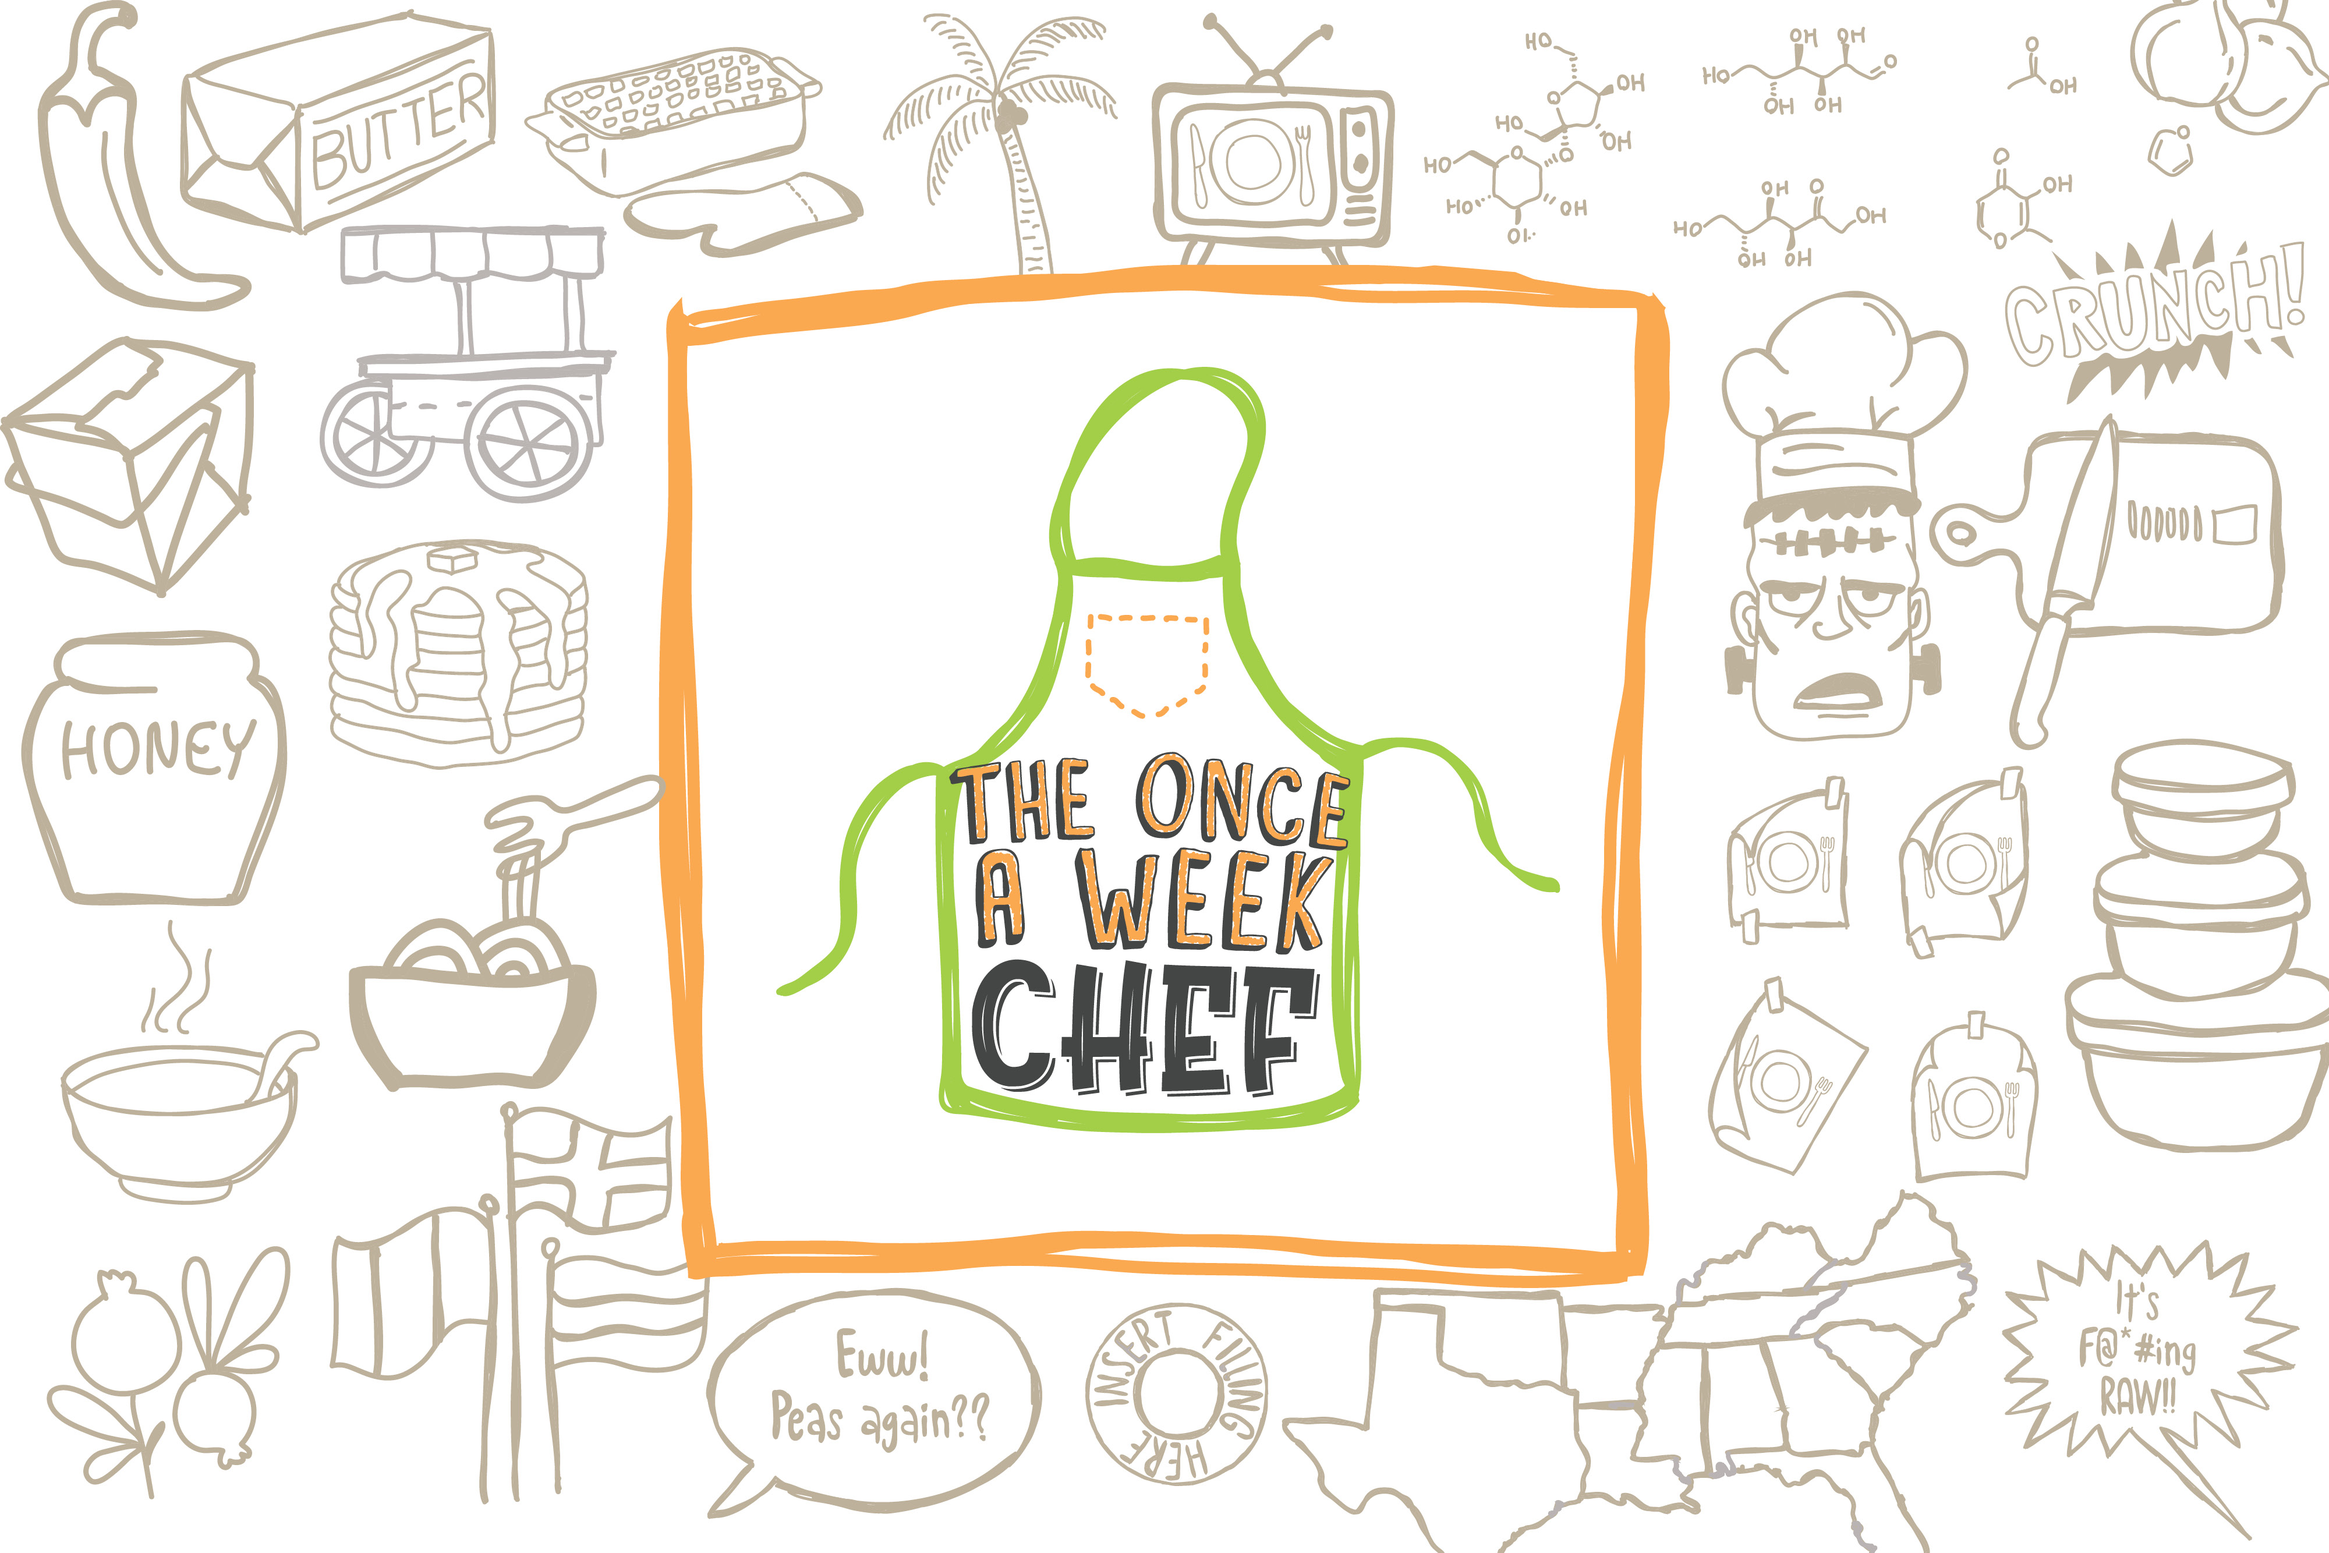
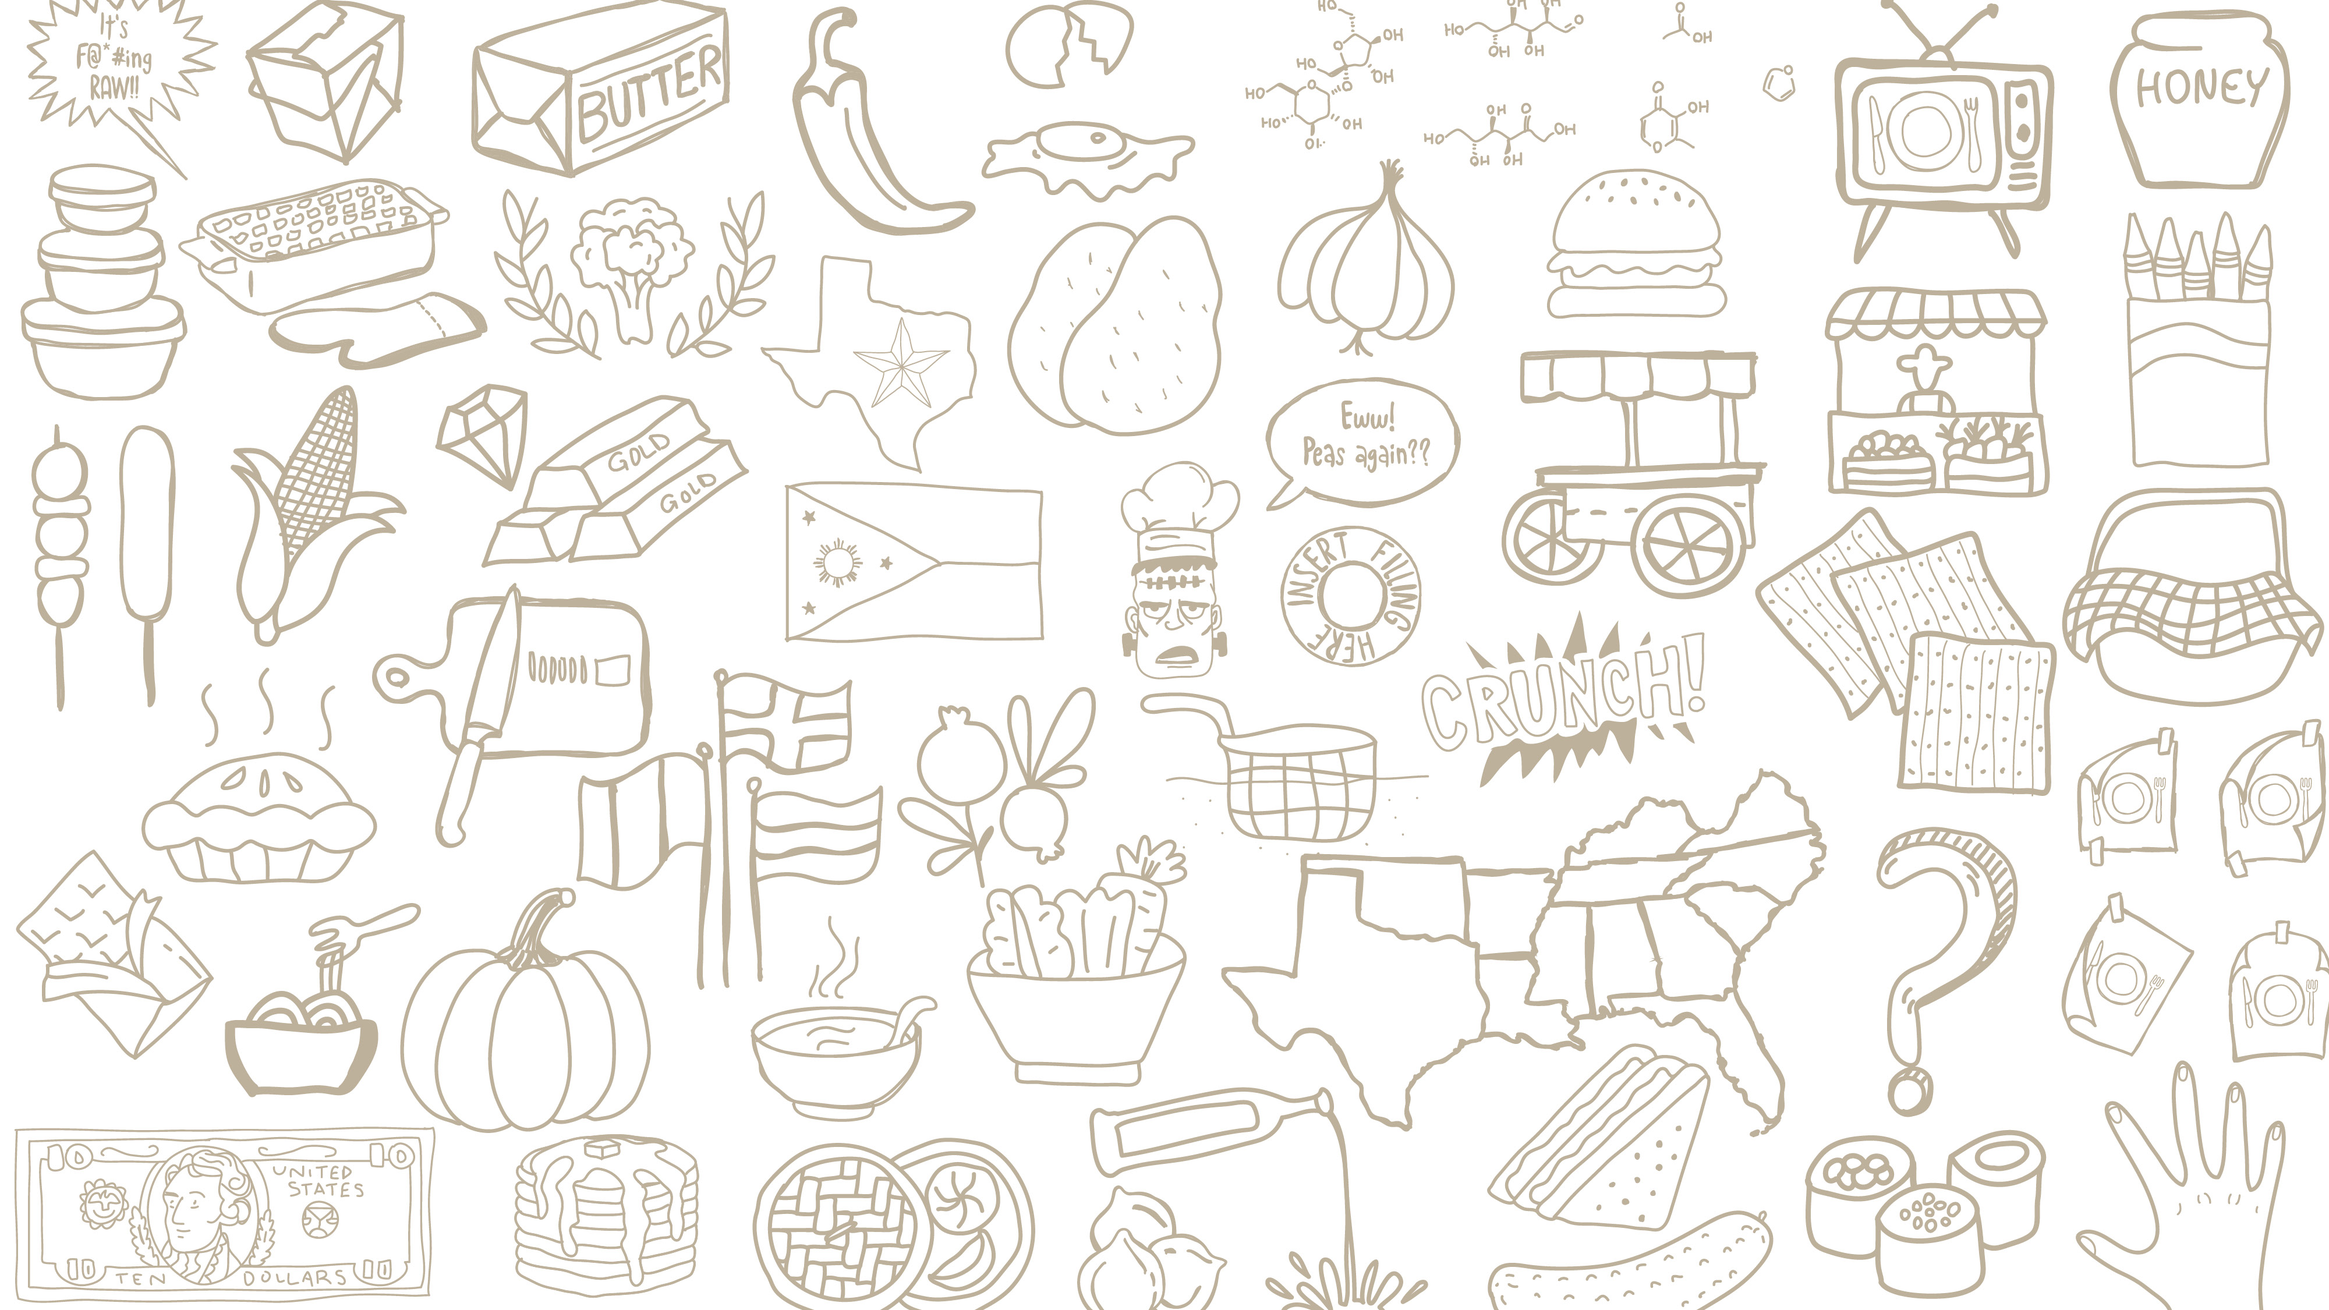
nav and new bg pattern

Changed region(s): [[0.0, 0.0, 1.0, 1.0], [0.375, 0.3422, 0.4062, 0.3733]]

diff --git a/index.html b/index.html
@@ -18,19 +18,41 @@
 <div class="content-container">
     <section class="title panel">
     </section>
-    <section class="hook panel">
-        <div class="headline" id="pinned-element2">
-            <h2>The Once a Week Chef is a year-long, once a week cooking adventure for those looking for a little inspiration in their kitchen.</h2>
+    <section class="panel">
+        <div class="hook">
+            <div class="headline">
+                <h2>The Once a Week Chef is a year-long, once a week cooking adventure for those looking for a little inspiration in their kitchen.</h2>
+            </div>
         </div>
     </section>
-    <section class="problem panel">
-        <div class="problemstatementtext">
-            <p>It’s easy and understandable for people to fall into a cooking rut at any time. They know what they like and what they can make well enough. Life gets busy, so they stick to a rotation of the tried and true.</p>
-            <p>I believe cooking, and food in general, should be fun. Personally, a renewed interest in cooking has been one of the few bright spots during this pandemic quarantine. A well-cooked meal can ease the sting of not being able to visit your favorite restaurants or transport you to far away destinations that you can currently only dream about visiting
-            again someday. But when you’re stuck in a cooking rut, it can become a task you dread rather than look forward to.</p>
-            <p>The goal of The Once a Week Chef is to inspire home cooks to try something new once a week for a whole year by giving them a weekly theme and prompt on which to base a recipe and a place to document their dishes. At the end of their year long challenge, users will have a personally curated cookbook of tried-and-tested recipes and the
-            satisfaction of having tried something out of their comfort zone 52 weeks straight.</p>
+    <section class="panel">
+        <div class="problem">
+            <div class="problemstatementtext">
+                <p>It’s easy and understandable for people to fall into a cooking rut at any time. They know what they like and what they can make well enough. Life gets busy, so they stick to a rotation of the tried and true.</p>
+                <p>I believe cooking, and food in general, should be fun. Personally, a renewed interest in cooking has been one of the few bright spots during this pandemic quarantine. A well-cooked meal can ease the sting of not being able to visit your favorite restaurants or transport you to far away destinations that you can currently only dream about visiting
+                again someday. But when you’re stuck in a cooking rut, it can become a task you dread rather than look forward to.</p>
+                <p>The goal of The Once a Week Chef is to inspire home cooks to try something new once a week for a whole year by giving them a weekly theme and prompt on which to base a recipe and a place to document their dishes. At the end of their year long challenge, users will have a personally curated cookbook of tried-and-tested recipes and the
+                satisfaction of having tried something out of their comfort zone 52 weeks straight.</p>
+            </div>
         </div>  
+    </section>
+    <section class="panel">
+        <div class="research">Research</div>
+    </section>
+    <section class="panel">
+        <div class="solution">Solution</div>
+    </section>
+    <section class="panel">
+        <div class="process">Process</div>
+    </section>
+    <section class="panel">
+        <div class="deliverables">Deliverables</div>
+    </section>
+    <section class="panel">
+        <div class="summary">Summary</div>
+    </section>
+    <section class="panel">
+        <div class="endnotes">Endnotes</div>
     </section>
 </div>
 

diff --git a/main.css b/main.css
@@ -21,12 +21,14 @@ body {
 
 .nav-container {
     height: 85%;
-    width: 5%;
-    background-color: #444;
+    min-width: 5%;
     position: fixed;
     top: 50%;
     transform: translateY(-50%);
     z-index: 1;
+    background-image: url(img/nav-bg.png);
+    background-size: 100%;
+    background-repeat: no-repeat;
 
 }
 
@@ -42,20 +44,26 @@ body {
 }
 
 
-.hook {
+.hook, .research, .process, .summary {
     background-color: #a2cd48;
     min-height: 100%;
     display: flex;
     flex-direction: column;
     align-content: center;
-    padding: 0 14em 0 14em;
 }
 
-.problem {
+.problem, .solution, .deliverables  {
     background-color: #faa950;
     min-height: 100%;
+    display: flex;
+    flex-direction: column;
+    justify-content: center;
 }
 
+
+.hook {
+    padding: 0 14em 0 14em;
+}
 
 .headline {
     margin: auto;
@@ -71,11 +79,6 @@ body {
     width: 100%;
 }
 
-.problem {
-    display: flex;
-    flex-direction: column;
-    justify-content: center;
-}
 
 .problemstatementtext {
  margin: 0 auto;
@@ -86,3 +89,5 @@ body {
 .problemstatementtext p {
     padding: .6em;
 }
+
+
